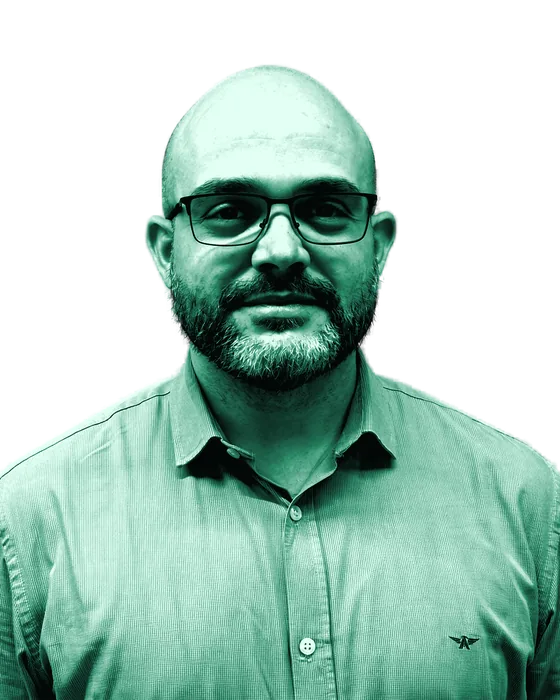
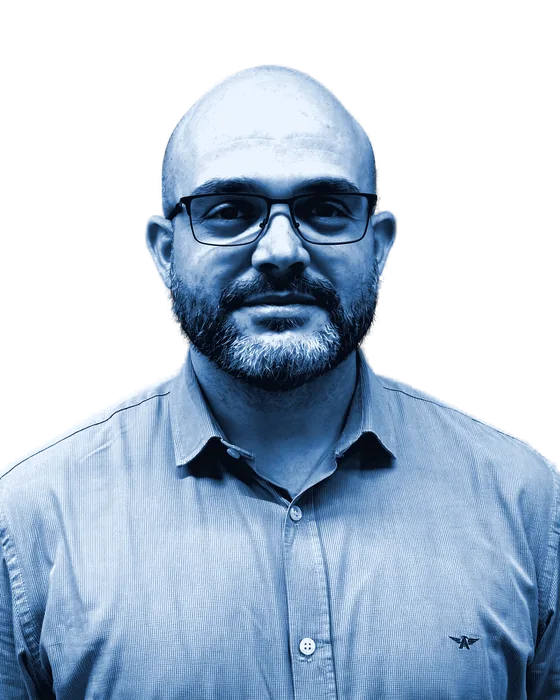
Retrato azulado com bordas esfumadas e projetos em cards compactos
Claude-Session: https://claude.ai/code/session_01BfM2XuAz4jpZvt7RqcUSS2

diff --git a/index.html b/index.html
@@ -143,11 +143,12 @@ p { margin: 0; }
 .portrait { position: relative; justify-self: end; width: 100%; max-width: 22rem; aspect-ratio: 4 / 5; margin: 0; }
 .portrait::before {
   content: ""; position: absolute; inset: 18% 6% 0; border-radius: 50% 50% 0 0;
-  background: radial-gradient(closest-side, rgba(57,245,168,0.22), transparent); filter: blur(10px);
+  background: radial-gradient(closest-side, rgba(96,160,230,0.2), transparent); filter: blur(12px);
 }
 .portrait img {
   position: relative; display: block; width: 100%; height: 100%; object-fit: cover; object-position: top;
-  -webkit-mask-image: linear-gradient(180deg, #000 72%, transparent 100%); mask-image: linear-gradient(180deg, #000 72%, transparent 100%);
+  -webkit-mask-image: radial-gradient(ellipse 56% 66% at 50% 34%, #000 62%, transparent 100%);
+  mask-image: radial-gradient(ellipse 56% 66% at 50% 34%, #000 62%, transparent 100%);
 }
 .ecg-lane { height: clamp(100px, 11vw, 140px); margin-top: 0.5rem; }
 
@@ -160,7 +161,7 @@ p { margin: 0; }
 @media (max-width: 760px) {
   .hero-grid { grid-template-columns: 1fr; gap: 0; }
   .portrait { order: -1; justify-self: start; max-width: 9rem; aspect-ratio: auto; margin-bottom: 1.2rem; }
-  .portrait img { border-radius: 50%; aspect-ratio: 1; height: auto; object-position: 50% 6%; -webkit-mask-image: none; mask-image: none; border: 1px solid rgba(57,245,168,0.35); background: #071310; }
+  .portrait img { border-radius: 50%; aspect-ratio: 1; height: auto; object-position: 50% 6%; -webkit-mask-image: none; mask-image: none; border: 1px solid rgba(96,160,230,0.4); background: #070d16; }
   .portrait::before { display: none; }
   .ecg-lane { margin-top: 0.5rem; }
   .vitals { grid-template-columns: repeat(2, minmax(0, 1fr)); }
@@ -194,28 +195,20 @@ section.block { padding-block: clamp(4rem, 9vw, 7rem) 0; }
 .role span { color: var(--muted); font-size: 0.95rem; }
 
 /* Projetos */
-.projects { display: grid; grid-template-columns: repeat(3, minmax(0, 1fr)); gap: 1.25rem; }
+.projects { display: grid; grid-template-columns: repeat(3, minmax(0, 1fr)); gap: 0.75rem; }
 @media (max-width: 900px) { .projects { grid-template-columns: 1fr; } }
 .proj {
-  --mx: 50%; --my: 0%;
-  position: relative; border-radius: var(--radius); background: var(--surface); border: 1px solid var(--line);
-  overflow: hidden; min-width: 0; transition: transform .5s cubic-bezier(.2,.8,.2,1), border-color .4s;
+  display: grid; grid-template-columns: 3.5rem minmax(0, 1fr); gap: 0.9rem; align-items: center;
+  padding: 0.85rem 1rem; border-radius: 12px; background: var(--surface); border: 1px solid var(--line);
+  min-width: 0; transition: border-color .3s, transform .4s cubic-bezier(.2,.8,.2,1);
 }
-.proj::before {
-  content: ""; position: absolute; inset: 0; pointer-events: none; opacity: 0; transition: opacity .4s;
-  background: radial-gradient(380px circle at var(--mx) var(--my), var(--glow), transparent 60%);
-}
-.proj:hover { transform: translateY(-5px); border-color: color-mix(in srgb, var(--phos-ink) 40%, var(--line)); }
-.proj:hover::before { opacity: 1; }
-.screen { background: var(--scr); height: 110px; position: relative; border-bottom: 1px solid var(--line); }
-.screen .ch { position: absolute; top: 0.75rem; left: 1rem; font: 500 0.66rem/1 var(--f-mono); letter-spacing: 0.14em; color: var(--scr-muted); }
-.screen svg { position: absolute; left: 0; right: 0; bottom: 12px; width: 100%; height: 70px; }
-.screen svg path { fill: none; stroke-width: 2; stroke-linecap: round; stroke-linejoin: round; stroke-dasharray: 700; animation: draw 5s linear infinite; }
-@keyframes draw { from { stroke-dashoffset: 700; } to { stroke-dashoffset: -700; } }
-.proj .body { padding: 1.3rem 1.4rem 1.5rem; display: grid; gap: 0.4rem; position: relative; }
-.proj h3 { font-size: 1.3rem; font-weight: 600; }
-.proj p { color: var(--muted); }
-.lgpd { margin-top: 1.5rem; font: 500 0.78rem/1.4 var(--f-mono); letter-spacing: 0.04em; color: var(--muted); }
+.proj:hover { transform: translateY(-2px); border-color: color-mix(in srgb, var(--phos-ink) 40%, var(--line)); }
+.proj svg { width: 3.5rem; height: 2.5rem; background: var(--scr); border-radius: 8px; display: block; }
+.proj svg path { fill: none; stroke-width: 1.6; stroke-linecap: round; stroke-linejoin: round; stroke-dasharray: 160; animation: draw 4s linear infinite; }
+@keyframes draw { from { stroke-dashoffset: 160; } to { stroke-dashoffset: -160; } }
+.proj h3 { font-size: 1.02rem; font-weight: 600; letter-spacing: -0.01em; }
+.proj p { color: var(--muted); font-size: 0.88rem; line-height: 1.35; }
+.lgpd { margin-top: 1.1rem; font: 500 0.76rem/1.4 var(--f-mono); letter-spacing: 0.04em; color: var(--muted); }
 .lgpd b { color: var(--phos-ink); font-weight: 500; }
 
 /* Consultoria */
@@ -249,8 +242,8 @@ footer .wrap { padding-block: 2rem 2.5rem; display: grid; grid-template-columns:
 @keyframes rise { from { opacity: 0.2; transform: translateY(32px); } to { opacity: 1; transform: none; } }
 @media (prefers-reduced-motion: reduce) {
   html { scroll-behavior: auto; }
-  .screen svg path, .typer .caret { animation: none; }
-  .screen svg path { stroke-dasharray: none; }
+  .proj svg path, .typer .caret { animation: none; }
+  .proj svg path { stroke-dasharray: none; }
 }
 </style>
 
@@ -344,25 +337,16 @@ footer .wrap { padding-block: 2rem 2.5rem; display: grid; grid-template-columns:
       </div>
       <div class="projects">
         <article class="proj rv">
-          <div class="screen" aria-hidden="true">
-            <span class="ch">CH1</span>
-            <svg viewBox="0 0 300 70" preserveAspectRatio="none"><path stroke="#39f5a8" d="M0 46 H30 Q38 36 46 46 H58 L64 54 L72 8 L80 58 L86 46 H112 Q126 30 140 46 H170 Q178 36 186 46 H198 L204 54 L212 8 L220 58 L226 46 H252 Q266 30 280 46 H300"/></svg>
-          </div>
-          <div class="body"><h3>CTI Manager</h3><p data-i18n="p1">Gestão e apoio assistencial para UTIs.</p></div>
+          <svg viewBox="0 0 56 40" aria-hidden="true"><path stroke="#39f5a8" d="M4 26 H14 L17 29 L21 9 L25 31 L28 26 H34 Q38 20 42 26 H52"/></svg>
+          <div><h3>CTI Manager</h3><p data-i18n="p1">Gestão e apoio assistencial para UTIs.</p></div>
         </article>
         <article class="proj rv">
-          <div class="screen" aria-hidden="true">
-            <span class="ch">CH2</span>
-            <svg viewBox="0 0 300 70" preserveAspectRatio="none"><path stroke="#f5b544" d="M0 62 H40 V54 H80 V46 H120 V38 H160 V30 H200 V22 H240 V14 H270 L278 6 L286 14 H300"/></svg>
-          </div>
-          <div class="body"><h3>CapacitaHub</h3><p data-i18n="p2">Treinamentos internos com certificação digital.</p></div>
+          <svg viewBox="0 0 56 40" aria-hidden="true"><path stroke="#f5b544" d="M4 32 H12 V27 H20 V22 H28 V17 H36 V12 H44 L48 8 L52 12"/></svg>
+          <div><h3>CapacitaHub</h3><p data-i18n="p2">Treinamentos internos com certificação digital.</p></div>
         </article>
         <article class="proj rv">
-          <div class="screen" aria-hidden="true">
-            <span class="ch">CH3</span>
-            <svg viewBox="0 0 300 70" preserveAspectRatio="none"><path stroke="#39f5a8" d="M0 46 H50 L56 16 L62 46 H120 L126 16 L132 46 H140 L146 16 L152 46 H220 L226 16 L232 46 H300"/></svg>
-          </div>
-          <div class="body"><h3>Vigillant</h3><p data-i18n="p3">Notificações hospitalares e gestão de documentos.</p></div>
+          <svg viewBox="0 0 56 40" aria-hidden="true"><path stroke="#39f5a8" d="M4 26 H12 L15 12 L18 26 H28 L31 12 L34 26 H37 L40 12 L43 26 H52"/></svg>
+          <div><h3>Vigillant</h3><p data-i18n="p3">Notificações hospitalares e gestão de documentos.</p></div>
         </article>
       </div>
       <p class="lgpd rv"><b>LGPD</b> · <span data-i18n="lgpd">Lei nº 13.709/2018 em todos os projetos.</span></p>
